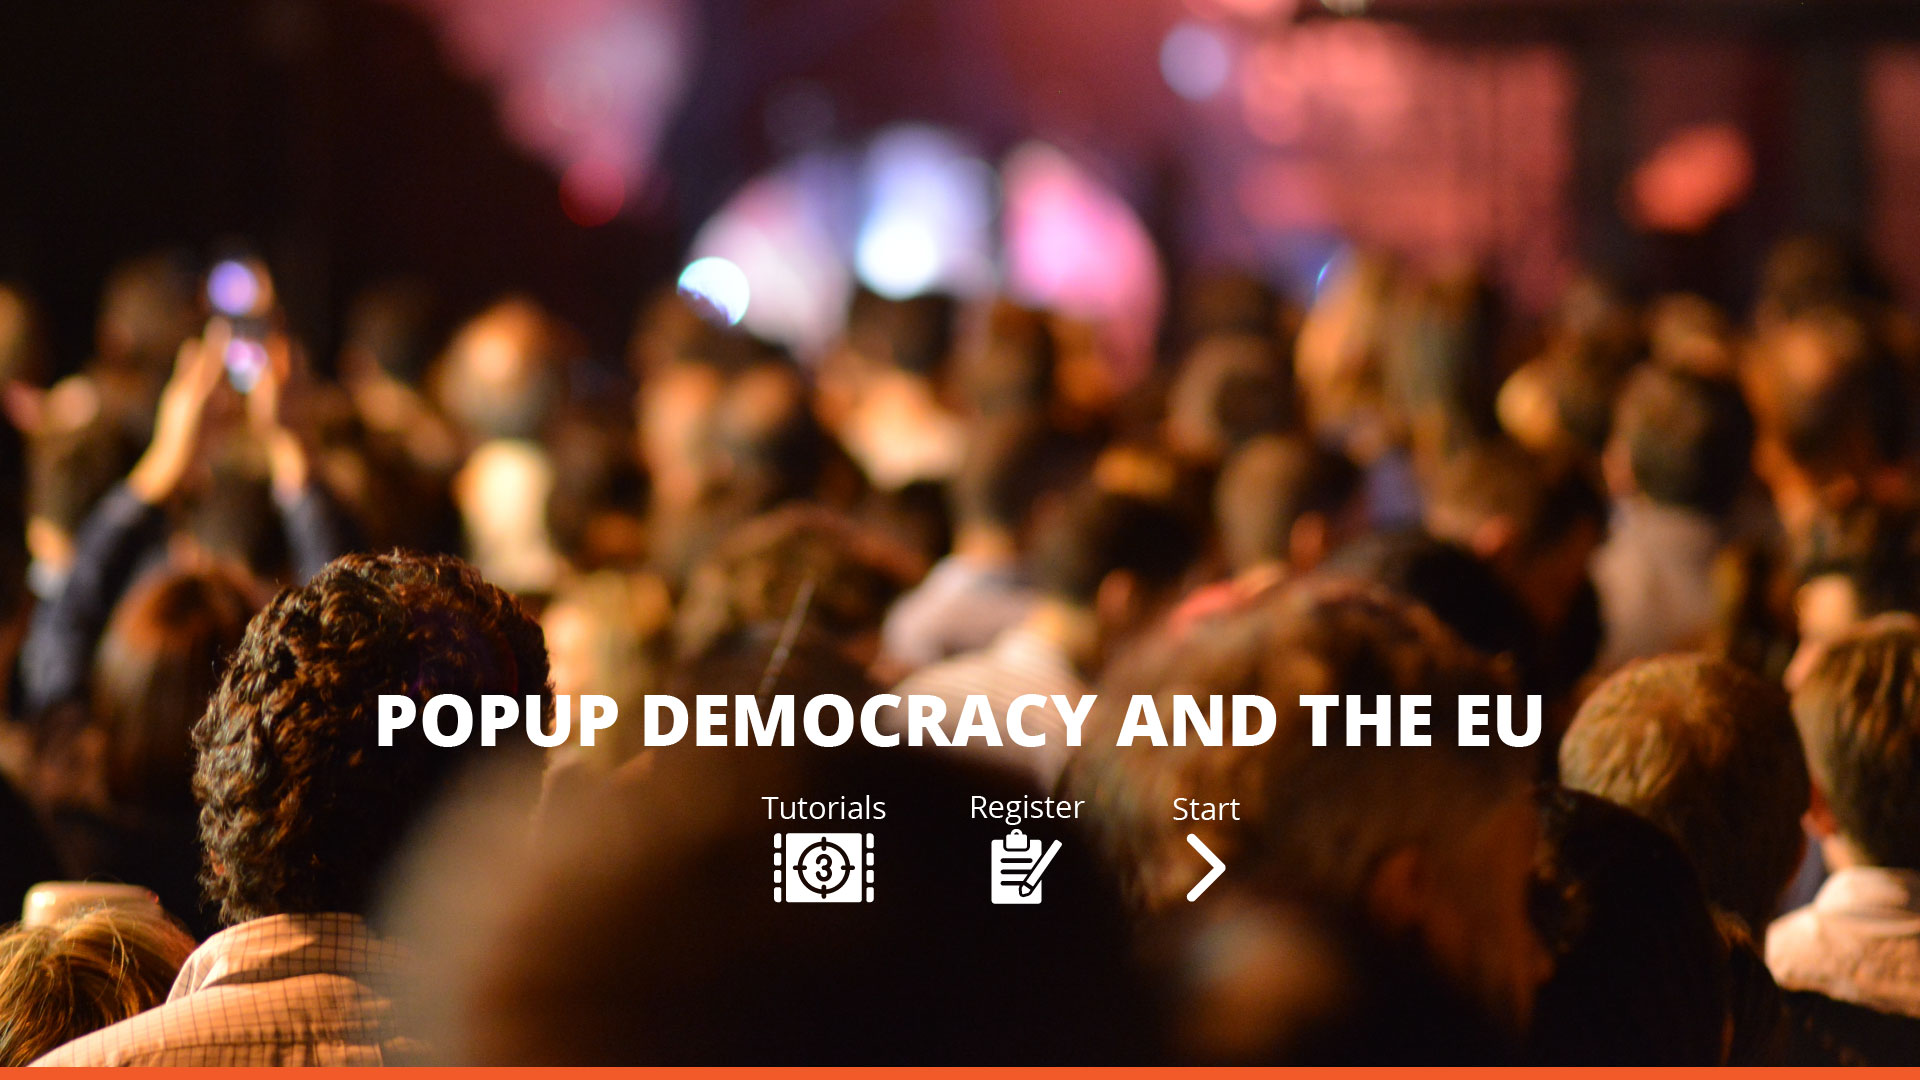
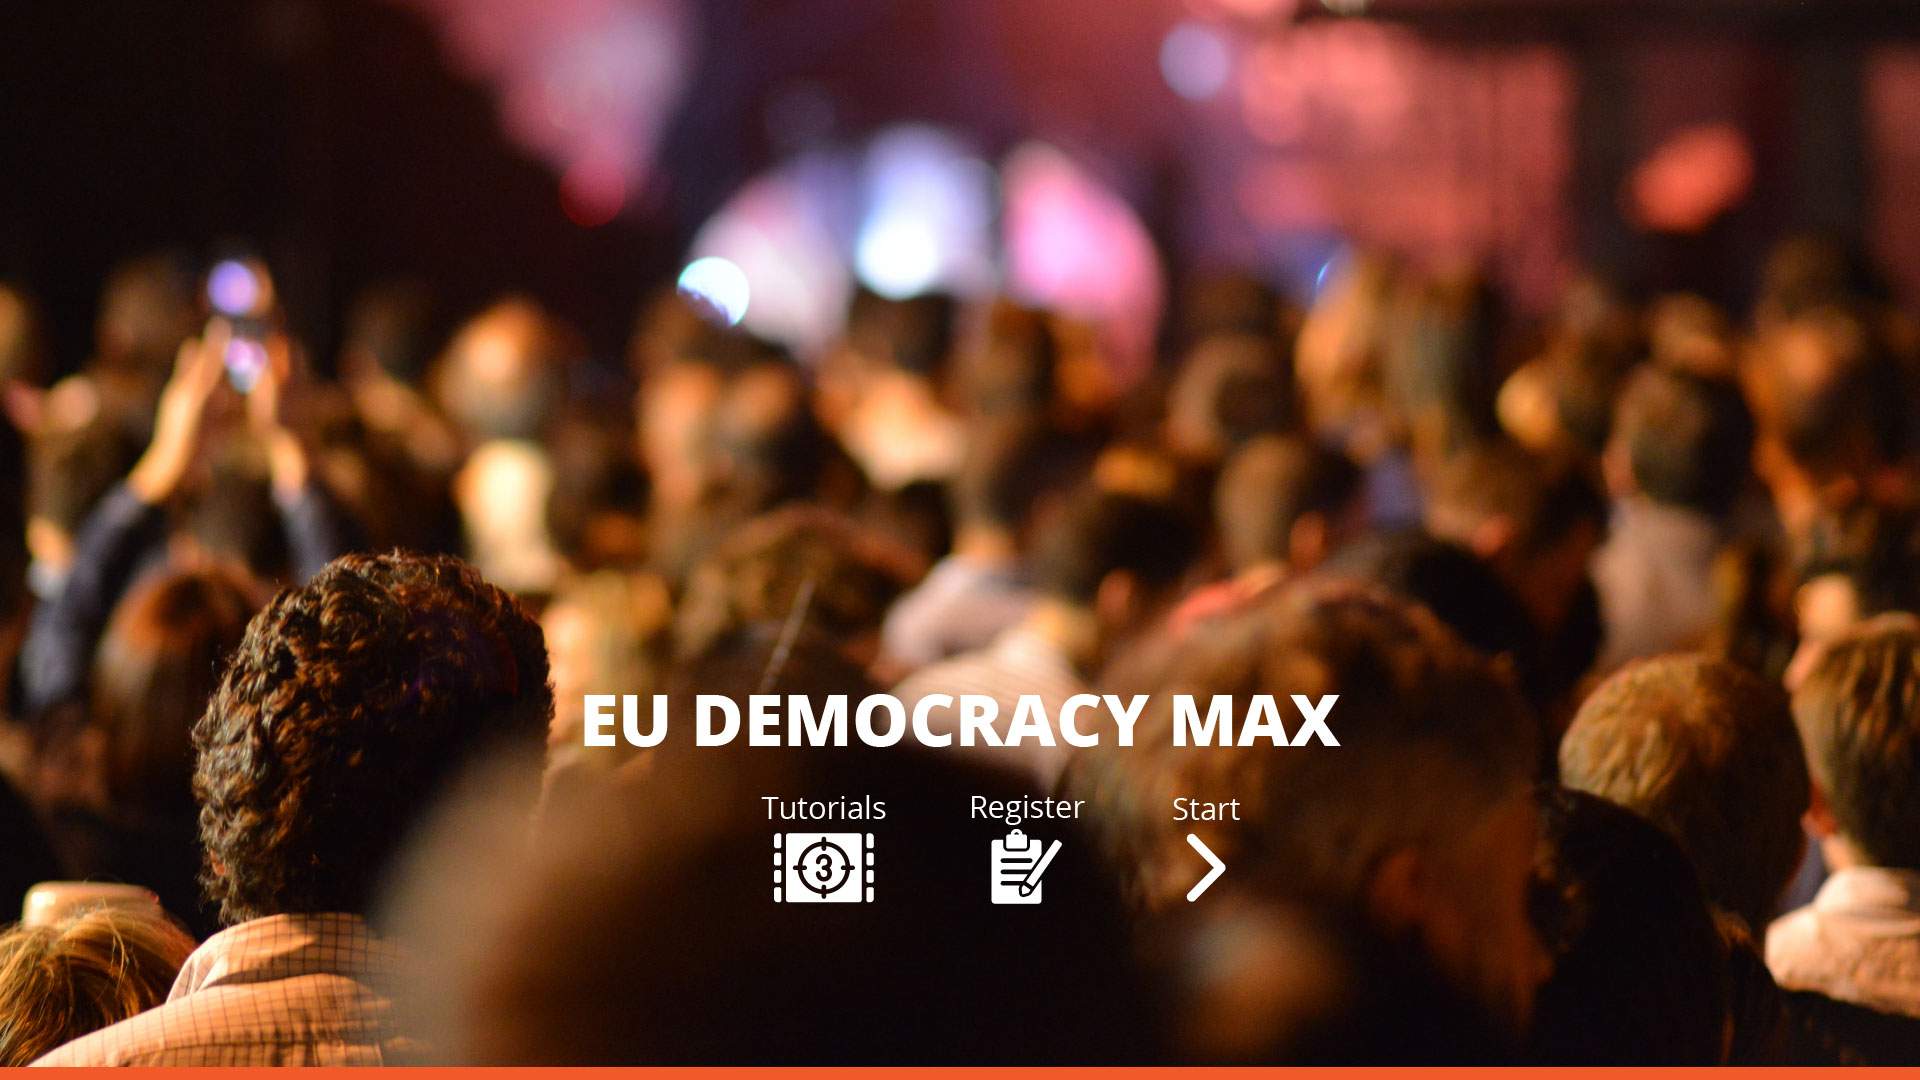
updated pictures

Changed region(s): [[0.1875, 0.6417, 0.8125, 0.7028]]

diff --git a/index.html b/index.html
@@ -4,7 +4,7 @@
 	<head>
 		<meta charset="utf-8">
 
-		<title>EU Democracy Debate Project Prototype</title>
+		<title>EU Democracy Max</title>
 
 		<meta name="apple-mobile-web-app-capable" content="yes">
 		<meta name="apple-mobile-web-app-status-bar-style" content="black-translucent">
